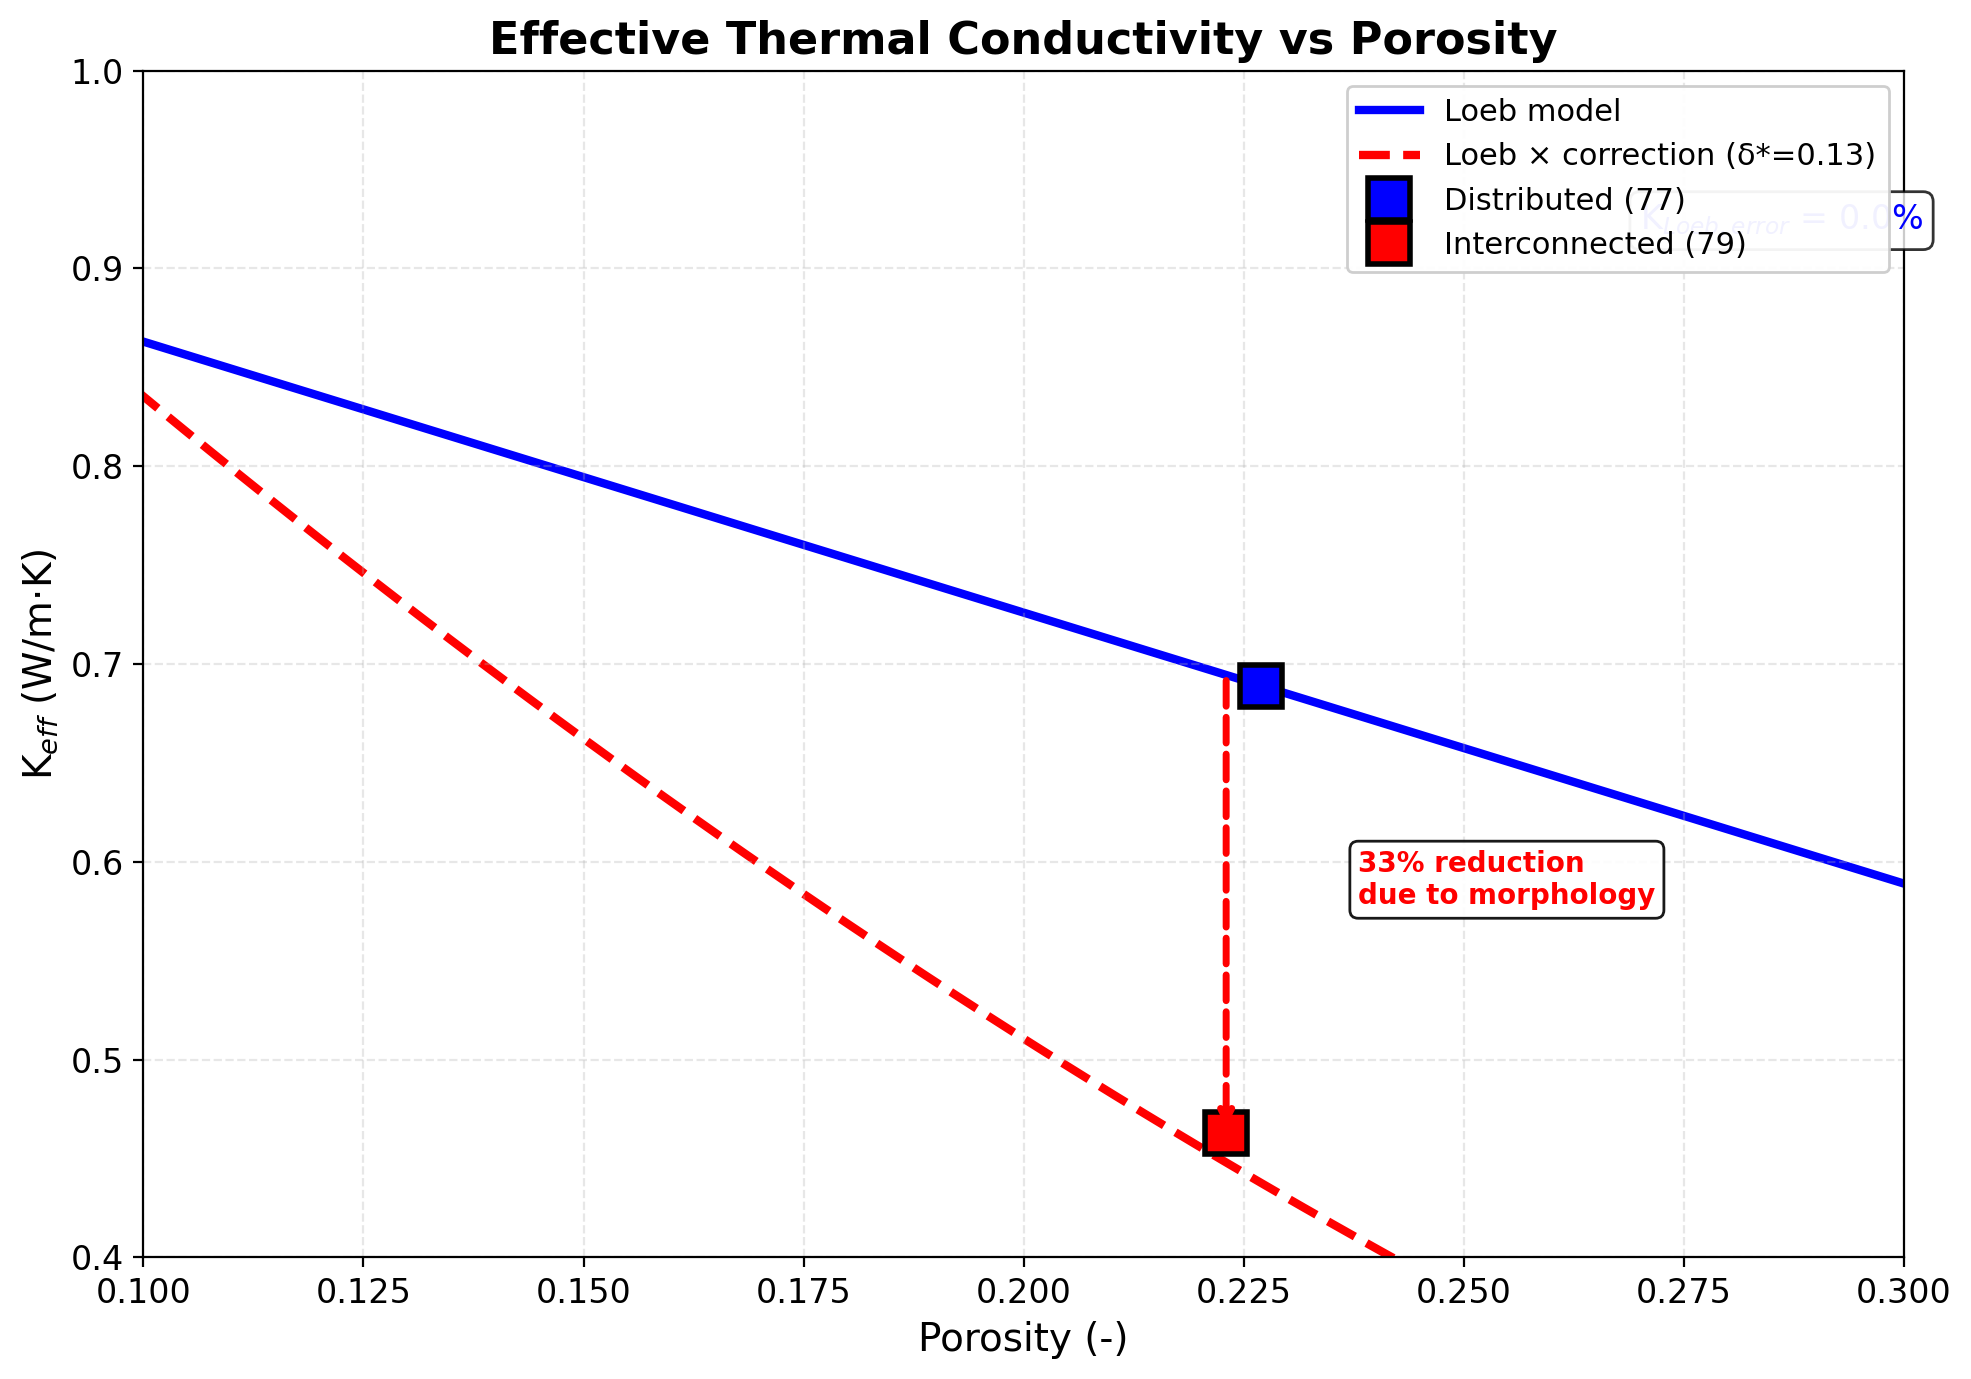
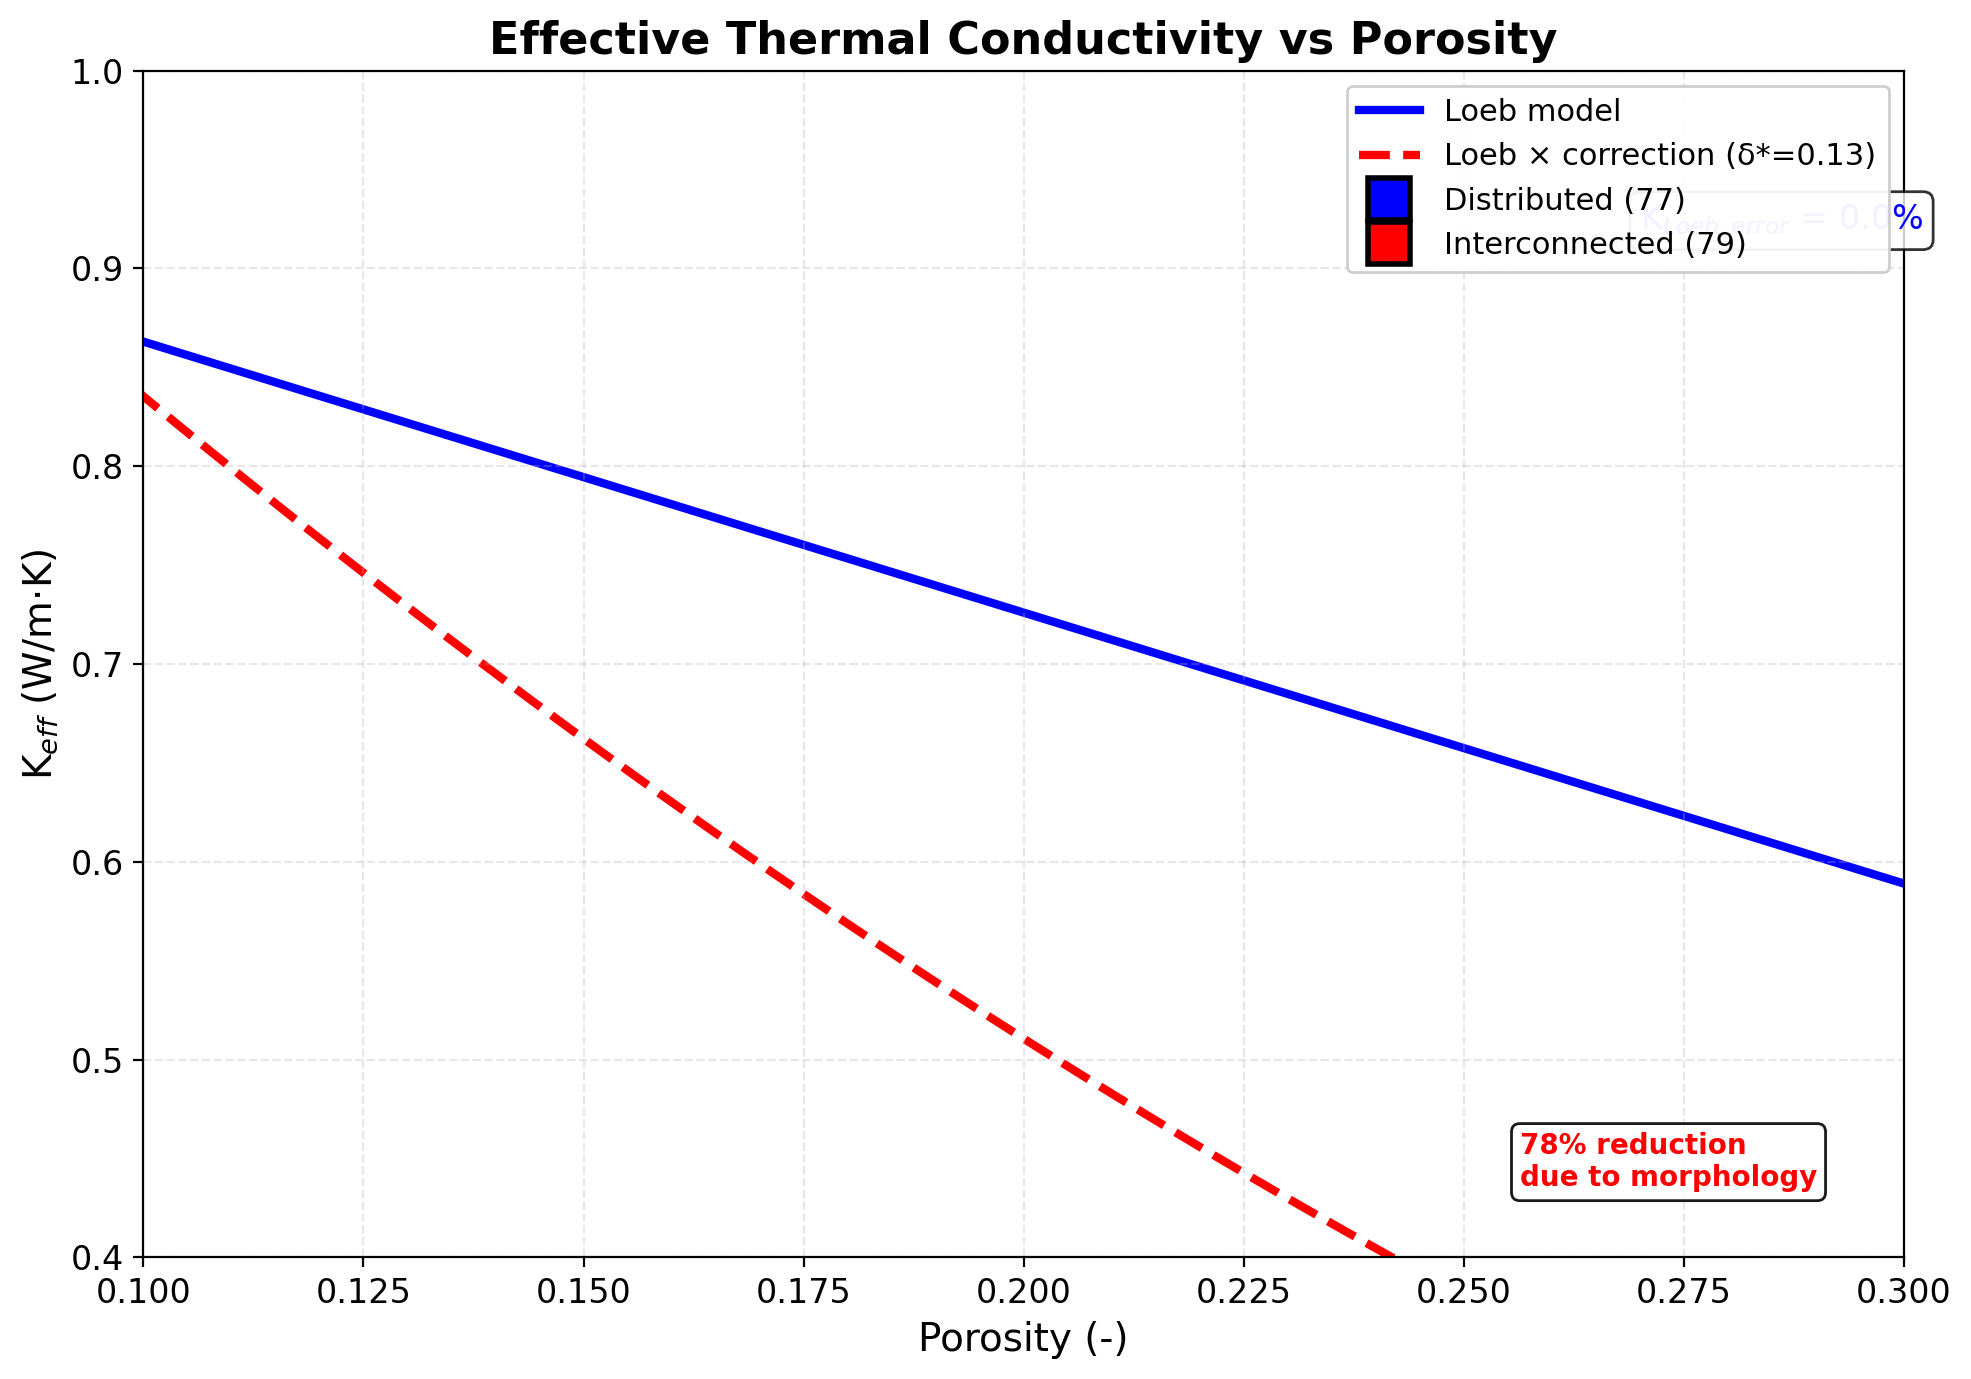
test

Changed region(s): [[0.6809, 0.5925, 0.8356, 0.686], [0.588, 0.4677, 0.6499, 0.8419], [0.7737, 0.8107, 0.9285, 0.8731]]

diff --git a/project_root/experiments/compare_optimization_results.py b/project_root/experiments/compare_optimization_results.py
@@ -7,8 +7,71 @@ Usage:
 """
 
 import numpy as np
+import pandas as pd
 import matplotlib.pyplot as plt
 from pathlib import Path
+import sys
+
+# Import pore_analysis to run analysis directly
+sys.path.insert(0, str(Path(__file__).parent.parent / "core"))
+from pore_analysis import analyze_porosity
+
+
+def load_pore_data(sample_name):
+    """Load pore analysis data by running pore_analysis.py.
+
+    Args:
+        sample_name: Name of the sample (e.g., 'distributed_77', 'connected_79')
+
+    Returns:
+        Dictionary with porosity statistics
+    """
+    image_path = Path(f"Optimization_3D_structure/exp_img/{sample_name}.png")
+
+    if not image_path.exists():
+        print(f"Error: {image_path} not found!")
+        sys.exit(1)
+
+    # Run pore analysis directly
+    print(f"  Analyzing {sample_name}...", end=" ", flush=True)
+    result = analyze_porosity(
+        image_path=str(image_path),
+        um_per_pixel=0.195,
+        circularity_threshold=0.50,
+        export_csv=False,  # CSV already exists
+        show_plots=False,
+    )
+    print("✓")
+
+    # Use results as-is from pore_analysis (geometric classification)
+    p_total = result['p_total']
+    p_boundary = result['p_inter']
+    p_intra = result['p_intra']
+    n_total = result['n_total']
+    n_boundary = result['n_inter']
+    n_intra = result['n_intra']
+
+    # Determine morphology based on AREA fraction of inter pores (not count)
+    # Use boundary porosity as fraction of total porosity
+    inter_area_fraction = p_boundary / p_total if p_total > 0 else 0
+
+    if inter_area_fraction < 0.30:  # Less than 30% area is inter → mostly isolated
+        morphology = "Mostly isolated"
+    elif inter_area_fraction > 0.70:  # More than 70% area is inter → interconnected
+        morphology = "Interconnected network"
+    else:
+        morphology = "Mixed morphology"
+
+    return {
+        "p_total": p_total,
+        "p_boundary": p_boundary,
+        "p_intra": p_intra,
+        "n_pores": n_total,
+        "n_boundary": n_boundary,
+        "n_intra": n_intra,
+        "morphology": morphology,
+        "inter_area_fraction": inter_area_fraction,
+    }
 
 
 def main():
@@ -17,23 +80,13 @@ def main():
     print("=" * 70)
     print()
 
-    # Expected results from pore_analysis.py (with stereological correction)
+    # Load data by running pore_analysis.py
+    print("Running pore analysis on experimental images...")
     results = {
-        "distributed_77": {
-            "p_total": 0.227,
-            "p_boundary": 0.000,
-            "p_intra": 0.227,
-            "n_pores": 2425,
-            "morphology": "Isolated spheres",
-        },
-        "connected_79": {
-            "p_total": 0.223,
-            "p_boundary": 0.138,
-            "p_intra": 0.085,
-            "n_pores": 258,
-            "morphology": "Interconnected network",
-        },
+        "distributed_77": load_pore_data("distributed_77"),
+        "connected_79": load_pore_data("connected_79"),
     }
+    print()
 
     # Predict K_eff
     # Distributed (classical Loeb)
@@ -96,10 +149,15 @@ def main():
     print()
 
     print("KEY FINDINGS:")
-    print("  1. Both samples have ~22-23% porosity (similar)")
-    print(f"  2. K_eff differs by {reduction:.0f}% due to morphology alone")
-    print("  3. Interconnected pores have 2-3× stronger impact than isolated pores")
-    print("  4. Classical Loeb model fails for interconnected morphology")
+    p_dist = results["distributed_77"]["p_total"]
+    p_conn = results["connected_79"]["p_total"]
+    inter_frac_dist = results["distributed_77"]["inter_area_fraction"]
+    inter_frac_conn = results["connected_79"]["inter_area_fraction"]
+    print(f"  1. Total porosity: {p_dist:.1%} (distributed) vs {p_conn:.1%} (interconnected)")
+    print(f"  2. Inter pore area fraction: {inter_frac_dist:.1%} vs {inter_frac_conn:.1%}")
+    print(f"  3. K_eff differs by {reduction:.0f}% despite different porosity levels")
+    print(f"  4. Morphology (inter pore connectivity) is the dominant factor")
+    print("  5. Classical Loeb model fails for interconnected morphology")
     print()
 
     # Create comparison plot with 2 subplots
